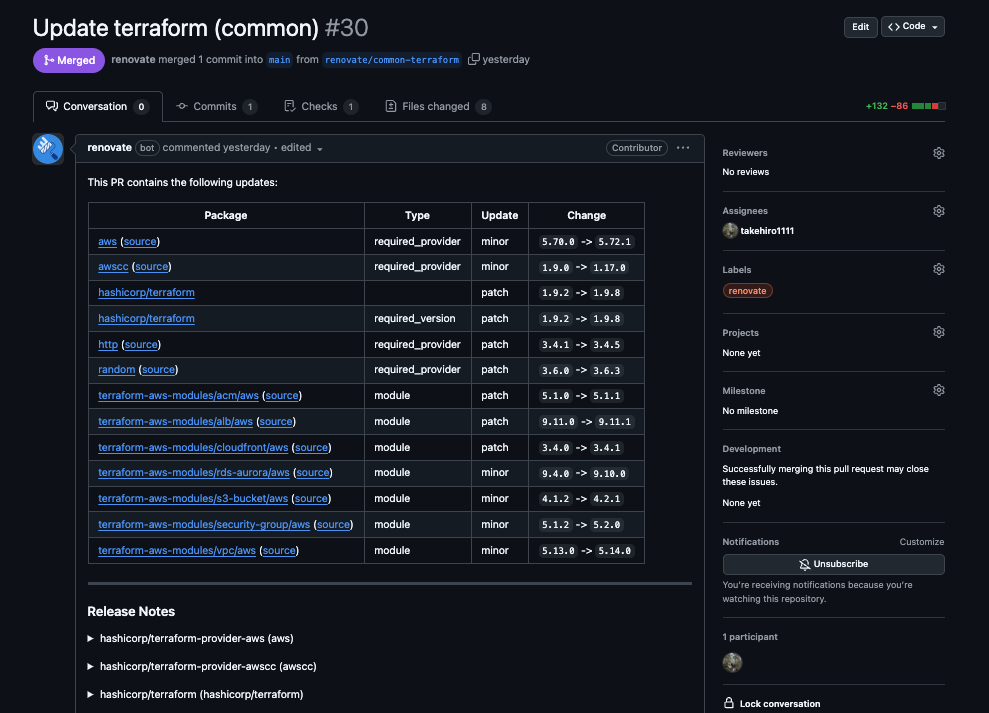
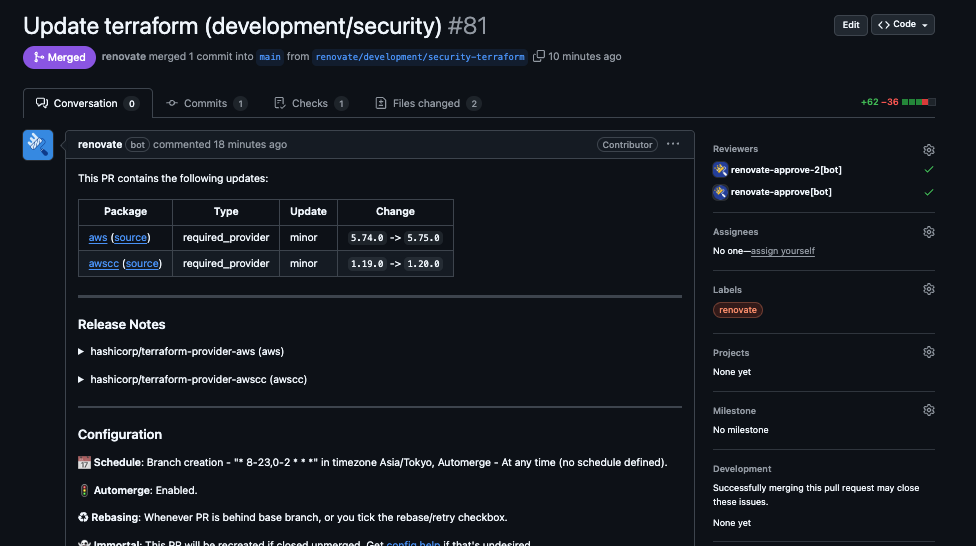
Renovateで自動マージされるよう修正

diff --git a/articles/renovate_description.md b/articles/renovate_description.md
@@ -51,6 +51,11 @@ reference:https://qiita.com/ksh-fthr/items/40732b6396f36c62bea2
   - Terraformのバージョン更新を自動で管理し、PR作成からMergeまでを自動化
   - 個人用のリポジトリのため、更新優先のためメジャーバージョンも対象
 
+- 備考
+  - 今回はCIテストをしなくても自動マージされるよう設定。
+  - RenovateのApprove用Botにレビュアーを対応させる。
+  - 個人用のリポジトリのため、Majorバージョンも自動マージに対照しています。(業務であればMajorはレビューする必要あります。)
+
 ```json:takehiro1111/aws_terraform/renovate.json
 // reference: https://docs.renovatebot.com/configuration-options/#additionalbranchprefix
 {
@@ -66,16 +71,16 @@ reference:https://qiita.com/ksh-fthr/items/40732b6396f36c62bea2
   "schedule": [
     "* 8-23,0-2 * * *"
   ],
-  "assignAutomerge": true,
-  "assignees": [
-    "takehiro1111"
-  ],
+  "assignAutomerge": false,
   "autoApprove": true,
-  "automerge":true,
-  "automergeType":"pr",
-  "automergeStrategy":"auto",
-  "rebaseWhen": "conflicted",
+  "automerge": true,
+  "automergeType": "pr",
+  "automergeStrategy": "auto",
+  "rebaseWhen": "auto",
   "dependencyDashboard": true,
+  "ignoreTests": true,
+  "ignoreReviewers": ["takehiro1111"],
+  "reviewers": ["Renovate Approve[bot]","Renovate Approve 2[bot]"],
   "packageRules": [
     {
       "matchManagers": ["terraform", "terraform-version", "tflint-plugin"],
@@ -86,6 +91,7 @@ reference:https://qiita.com/ksh-fthr/items/40732b6396f36c62bea2
     }
   ]
 }
+
 ```
 
 ### 上記コードの結果、バージョン更新を行いPR作成〜Mergeまで自動化される。
